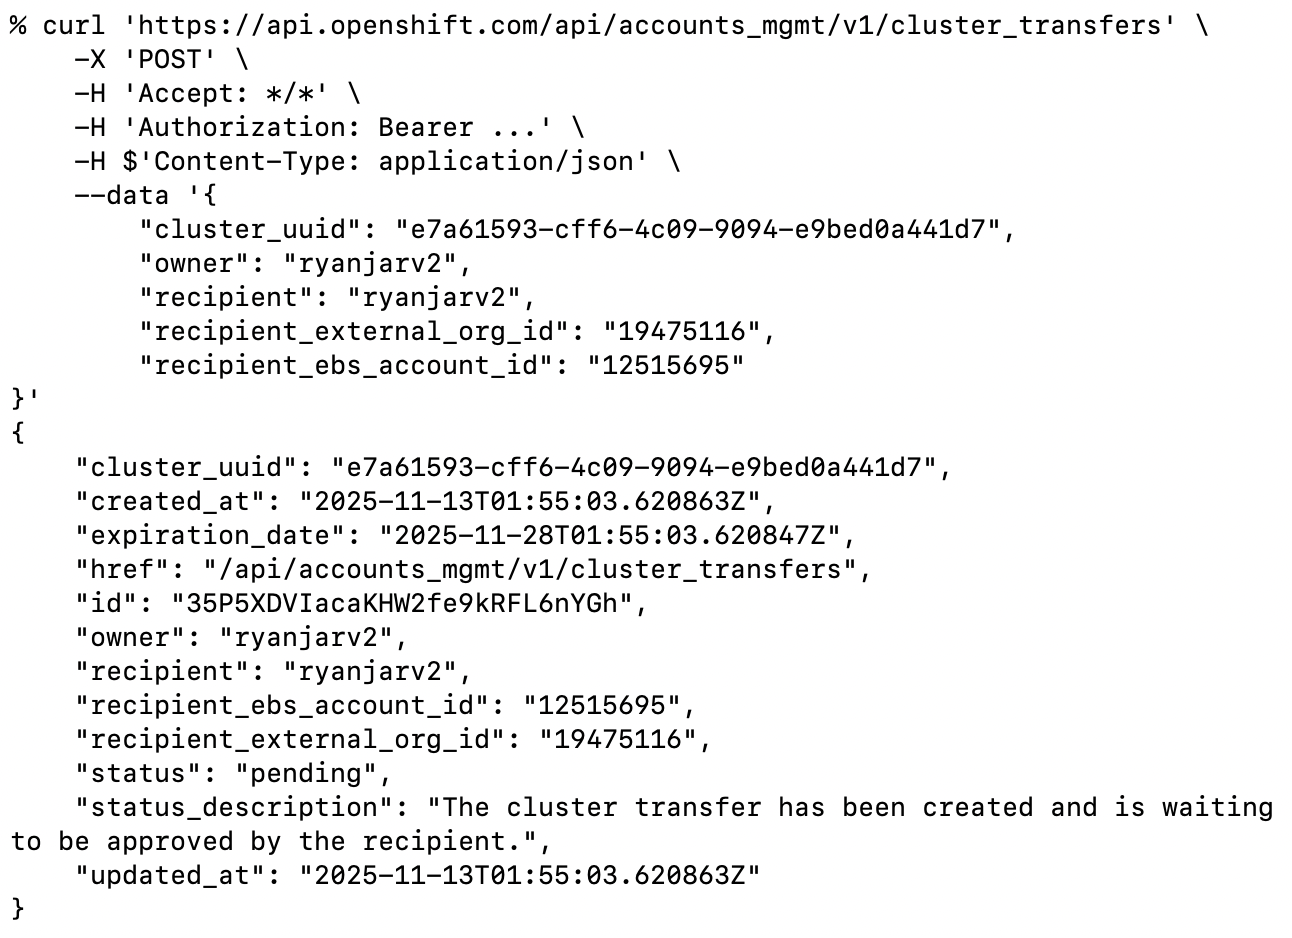
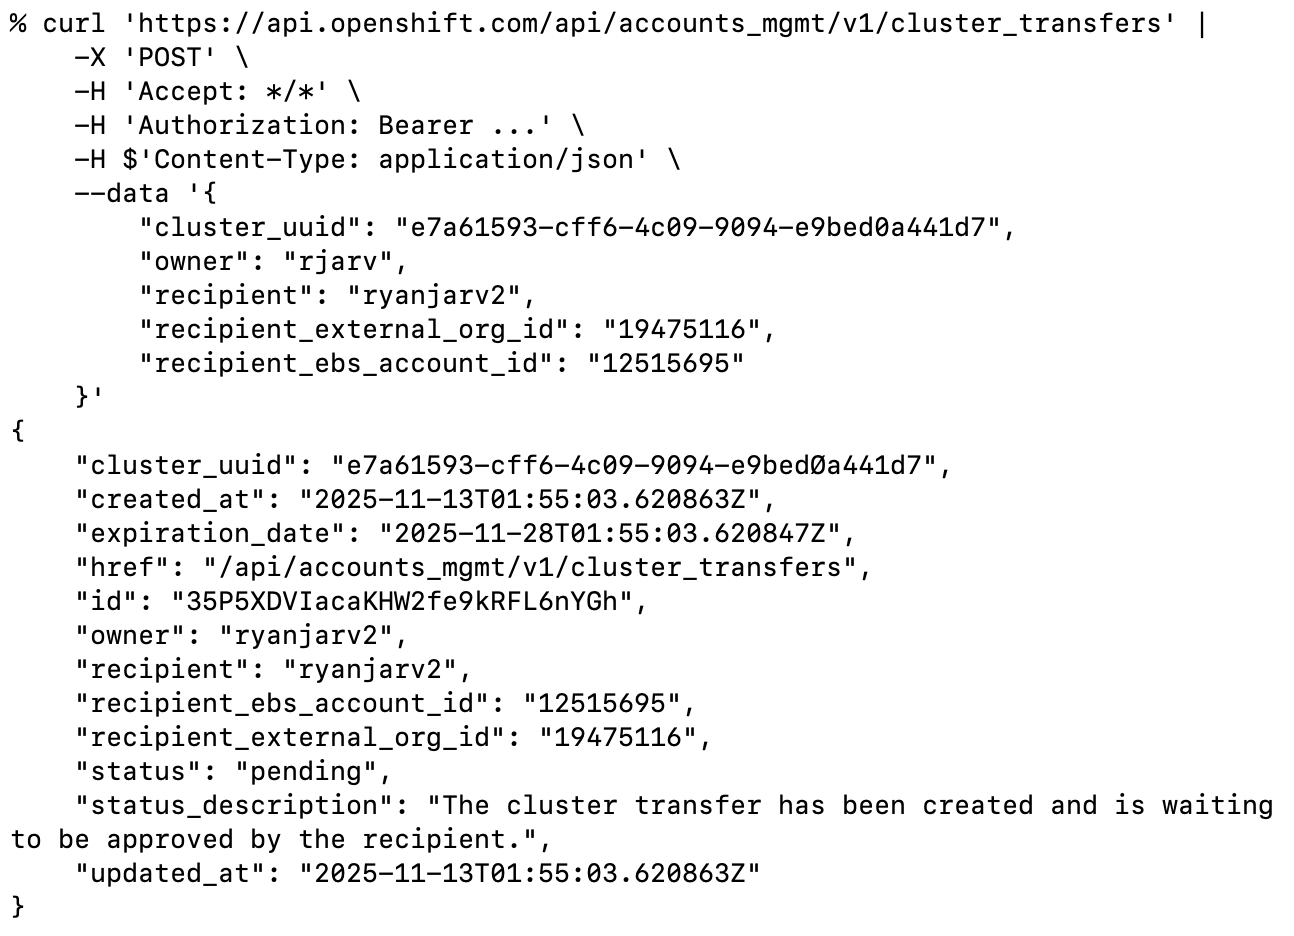
Final edits to _posts/2026-01-07-unauth-aws-rosa-cluster-takeover.md

diff --git a/_posts/2026-01-05-unauth-aws-rosa-cluster-takeover.md b/_posts/2026-01-05-unauth-aws-rosa-cluster-takeover.md
@@ -1,16 +1,21 @@
-# Stealing Clouds: Unauthenticated Cluster Takeover in AWS ROSA
+---
+layout: post
+title: "Unauthenticated Cluster Takeover in AWS ROSA"
+---
 
-Date: January 4, 2026
-Author: Ryan Gerstenkorn
+{{ page.title }}
+================
+
+<p class="meta">5th January 2026 - NW</p>
 
 Recently, I discovered a critical vulnerability in Red Hat OpenShift Service affecting AWS ROSA Classic Clusters. This 
 flaw allowed an unauthenticated attacker to discover and take full ownership of arbitrary AWS ROSA Classic clusters, 
 gain cluster-admin privileges, and pivot to privileged access within the victim’s underlying AWS account.
 
 Red Hat has since patched this vulnerability following my report in December 2025. This post details the technical 
-discovery, the mechanics of the exploit, and how a simple API oversight exposed entire cloud environments.
+discovery, the mechanics of the exploit, and how it could lead to compromising the underlying cloud infrastructure.
 
-## The Discovery: Cluster Transfer Endpoint
+# The Discovery: Cluster Transfer Endpoint
 
 While researching the ROSA API, I noticed an endpoint related to cluster transfers that looked interesting. This endpoint, 
 `api.openshift.com/api/accounts_mgmt/v1/cluster_transfers` was used to view, initiate, and update AWS ROSA Classic 
@@ -28,35 +33,37 @@ The intended workflow to initiate a transfer worked like this:
 2. The Recipient receives an email and accepts the transfer.
     * The sender also receives an email at this point and can cancel any pending transfers.
 3. Ownership is updated within 24 hours.
-  * The cluster remains in the same AWS account, but belongs to the recipient when using `console.redhat.com`.
+  * The cluster remains in the same AWS account, but is owned by the recipient of the transfer when using 
+    `console.redhat.com`.
 
 It wasn't immediately clear where to find the organization ID and ebs account ID, but after a bit of searching through
 my HTTP history in Caido, I found the values in the response from `/api/accounts_mgmt/v1/current_account`:
 
 ![current account](/images/current-account.png)
 
-## The Vulnerability: Missing Authorization
+# The Vulnerability: Missing Authorization
 
 The critical flaw lay in the authorization check. The API correctly verified that the recipient had the ability to 
 accept a cluster, but it failed to verify if the requester actually owned the cluster they were attempting to transfer.
 
 This meant that if I knew any cluster UUID and the cluster creator's username, I could send a POST request to the API 
-listing myself as the recipient. The API would process the request, and the cluster would appear in my account pending 
-acceptance.
+listing myself as the recipient. The API would process the request, and the cluster would appear in my account within 24
+hours, pending acceptance.
 
-## The Attack Chain
+# The Attack Chain
 
 The exploit evolved from a targeted attack into a mass-compromise vector as I discovered easier ways to gather the 
-necessary targeting information.
+necessary information.
 
-### 1. Reconnaissance: Finding Targets
+
+## Reconnaissance: Finding Targets
 
 Initially, I believed the attack required knowing the Cluster ID or Subscription ID and the owner's username; both of
 these could be retrieved as unprivileged users in the same organization, but short of that, guessing these would be 
-difficult. However, I discovered a method to retrieve this information without authentication.
+difficult. 
 
-By visiting the cluster's web console settings endpoint (`https://${CONSOLE_DOMAIN}/settings/cluster`), the server 
-returned both the `cluster_uuid` and the owner's email address, without requiring a login.
+After some more digging, I discovered unauthenticated requests to the cluster's web console settings endpoint 
+(`https://${CONSOLE_DOMAIN}/settings/cluster`), returned both the `cluster_uuid` and the owner's email address.
 
 Furthermore, because ROSA console domains are predictable and utilize SSL certificates, the domains themselves (and thus 
 the targets) are publicly discoverable via Certificate Transparency (CT) logs.
@@ -68,8 +75,13 @@ the targets) are publicly discoverable via Certificate Transparency (CT) logs.
 3. Extract `cluster_uuid` and the owner's email.
 4. Guess the username associated with the email.
     * i.e., given `rjarv@example.sh`, guess `rjarv`.
+  
+This ended up simplifying the attack to step four, guessing the username associated with a given email. At this point it 
+may make sense to look for a gadget to derive the username, but I wasn't convinced this was necessary and decided to 
+stop at this point. We already have the ability to test for several usernames by sending many transfer requests, and
+in most cases guessing the username should be trivial as businesses typically keep usernames consistent across platforms.
 
-### 2. The Heist: Transferring Ownership
+## The Heist: Transferring Ownership
 
 With the target info in hand, the exploitation was trivial. I wrote a script to gather the cluster UUID and the owner's
 email address given the cluster domain name discovered through certificate transparency logs:
@@ -77,31 +89,30 @@ email address given the cluster domain name discovered through certificate trans
 ![rosa cluster info](/images/rosa-cluster-info.png)
 
 From here, I needed to find a way to go from the victim's email address (`me+redhat-1@ryanjarv.sh`) to the victim's 
-username `rjarv`, which is needed to initiate the cluster transfer. With a bit of prompt tweaking, ChatGPT was able to 
-guess this correctly within 6 guesses:
+username `rjarv`, which is needed to initiate the cluster transfer. With a bit of prompt tweaking, and after brutalizing
+my last name, ChatGPT was able to guess this correctly in 6 guesses:
 
 ![rosa cluster username](/images/rosa-cluster-username.png)
-
-Realistically, most cases should be easier as businesses typically keep usernames consistent across platforms. This, 
-combined with the ability to test for invalid usernames (by sending many transfer requests), I felt was sufficient 
-to cover most cases and decided to move on.
 
 With the cluster creator's username and cluster UUID, it was possible to initiate the transfer:
 
 ![rosa cluster transfer poc](/images/rosa-cluster-transfer-poc.png)
 
-The `transfer2.sh` script shown uses the attacker's RedHat credentials to gather the `recipient_external_org_id` and 
-`recipient_ebs_account_id` values from `api.openshift.com/api/accounts_mgmt/v1/current_account` and then sends the 
+The `transfer2.sh` script shown uses the attacker's RedHat credentials to gather the required `recipient_external_org_id` 
+and `recipient_ebs_account_id` values from the `/api/accounts_mgmt/v1/current_account` endpoint and then send the 
 equivalent of the following curl request:
 
 ![initiate cluster transfer request](/images/rosa-cluster-transfer-request.png)
+*The image above shows a cluster transfer initiation request, transferring the cluster from rjarv to ryanjarv2. I know
+it's a bit confusing but, rjarv, is the victim in this case.*
 
 By sending this payload to `api.openshift.com`, the Red Hat console would generate a "Transfer Ownership Request" for the 
-victim's cluster. As the "recipient", I could simply log into my own console, see the pending request, and click "Accept".
+victim's cluster. As the attacker, I then log into my own console, see the pending request, and click "Accept".
 
-Within 24 hours of accepting the transfer, the cluster disappeared from the victim's account and appeared in mine.
+Within 24 hours of accepting the transfer, the cluster disappeared from the victim account and appeared in the attacker
+account.
 
-### 3. Escalation: From Cluster Admin to AWS Admin
+## Escalation: From Cluster Admin to AWS Admin
 
 Once the cluster was in my account, I had full control over its configuration. Gaining cluster-admin access was as 
 simple as:
@@ -128,9 +139,9 @@ The attack shown above results in the AWS permissions in active use by all EC2 i
 access, but in cases where it doesn't, all AWS IAM permissions available to the ROSA cluster are also available to the 
 attacker.
 
-## Impact
+# Impact
 
-This vulnerability was critical. It allowed for unauthenticated and automatable takeover of most production AWS ROSA 
+This vulnerability was critical and allowed for unauthenticated and automatable takeover of most production AWS ROSA 
 Classic clusters as well privileged access to the underlying AWS environment. An attacker could:
 
 * Disrupt services by deleting clusters.
@@ -142,16 +153,17 @@ it was not possible to send the cluster back to the victim after modification, a
 sends emails to both the sender and receiver. If the victim sees this email before the cluster transfer is complete 
 (typically within 24 hours after acceptance), the cluster transfer can be canceled.
 
-## Disclosure Timeline
+# Disclosure Timeline
 
-I reported this issue to Red Hat Security, and I would like to thank them for their responsiveness and professional handling of the disclosure.
+I reported this issue to Red Hat Security, and I would like to thank them for their responsiveness and professional 
+handling of the disclosure.
 
 * Nov 09, 2025: Vulnerability reported to Red Hat Product Security.
 * Nov 10, 2025: Provided updated proof-of-concept allowing for easier targeting via console endpoints.
 * Nov 21, 2025: Red Hat confirmed the root cause (exception in check logic).
 * Dec 12, 2025: Fixes are fully rolled out to production.
 
-## Conclusion
+# Conclusion
 
 To me, this vulnerability highlights the importance of monitoring emails from SaaS providers. In this case, the impact 
 could be completely mitigated by investigating the cause of the cluster transfer initiation email which was sent from
@@ -159,7 +171,7 @@ could be completely mitigated by investigating the cause of the cluster transfer
 
 ![rosa victim cluster transfer email](/images/rosa-victim-cluster-transfer-email.png)
 
-This, however, is more difficult than it sounds; unless the recipient is on call, there isn't much reason to
+This, however, can be more difficult than it sounds; unless the recipient is on call, there isn't much reason to
 be checking emails, which are often drowned out by other alerts on the weekend or holidays. In my case, I didn't 
 see this email until writing up the blog post because it was marked as spam by my email provider.
 
@@ -168,8 +180,8 @@ and alert on each email from the SaaS providers you use, then incrementally filt
 be safely ignored.
 
 Interestingly, while setting up the AWS environments I used above to test this exploit, I ran into a situation where this 
-approach is necessary. After requesting the necessary quota increases from AWS, but before running the tests above, 
-instead of approving or denying my quota increase request, they decided to shut down my account with only five days notice. 
-The email that explained this was also categorized as spam and mixed in with many other similar emails I get regularly 
-from AWS. In my case, this was ok; I wasn't using this account for anything yet, but for in-use production accounts, 
-this same situation would be quite different.
+approach would also prove helpful. After requesting the necessary quota increases from AWS, but before running the tests above, 
+instead of approving or denying my quota increase request, AWS decided to shut down my account with only five days notice. 
+The email that explained this was also categorized as spam and mixed in with many other similar emails. In my case, this 
+was ok; I wasn't using this account for anything yet, but for in-use production accounts, this situation would be 
+quite different.
